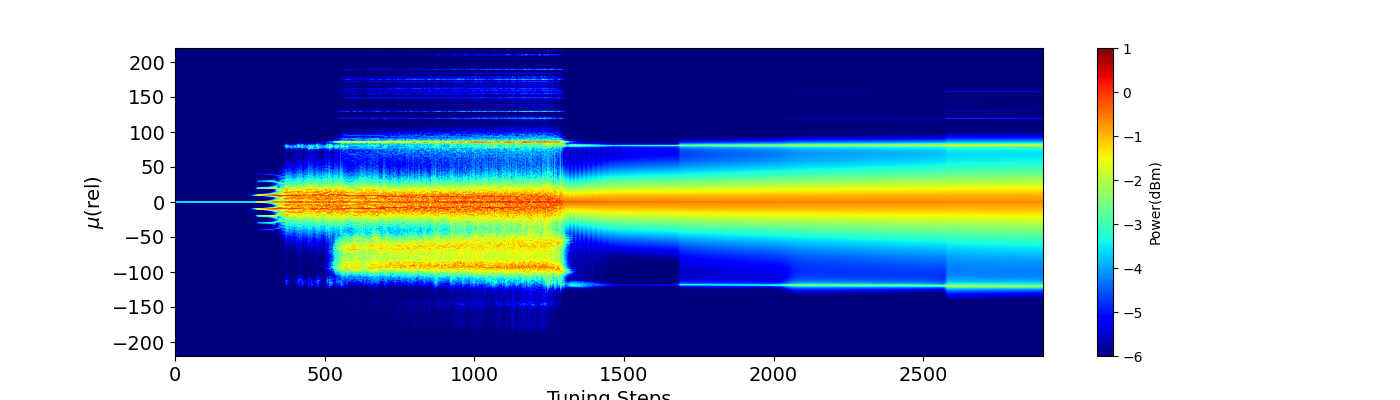
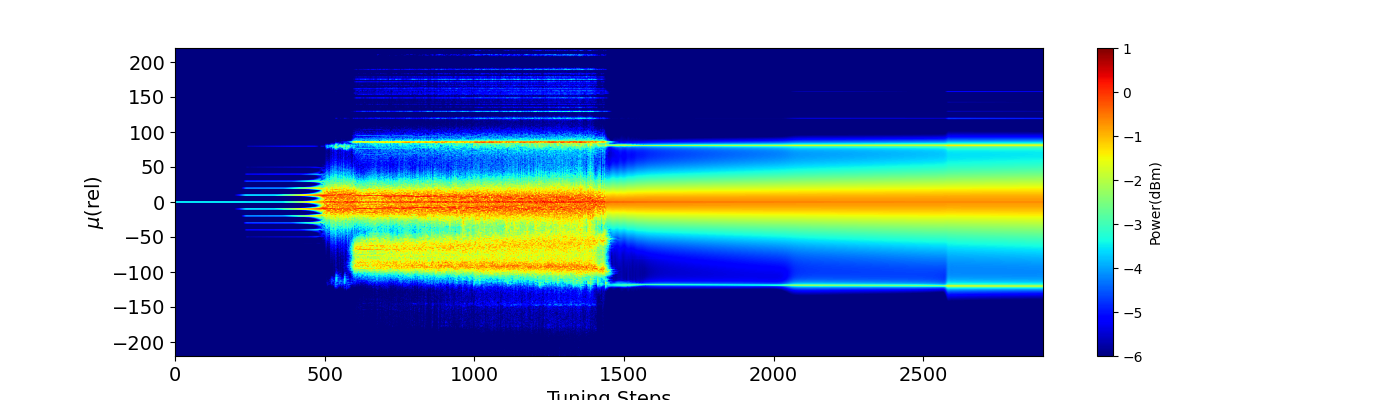
Refactor code structure and remove redundant sections for improved readability and maintainability

Changed region(s): [[0.1536, 0.12, 0.4914, 0.84]]

diff --git a/rl_mrr_all_gru_ddqn.py b/rl_mrr_all_gru_ddqn.py
@@ -338,8 +338,8 @@ class RL_MRR_Env():
         self.step_cntr = 0
         self.pcav_hist = []
 
-        self.power = np.random.uniform(0.12, 0.16, size=(1,))
-        # self.power = np.array([0.18])
+        # self.power = np.random.uniform(0.12, 0.16, size=(1,))
+        self.power = np.array([0.12])
         Ppmp = torch.tensor(self.power, dtype=torch.float64)
         # # fpmp = fpmp[0]
         # Ain = torch.zeros(1, len(self.mu),dtype=torch.complex128, device=DEVICE)
@@ -678,7 +678,9 @@ plt.grid()
 plt.legend()
 plt.xlabel('Iteration')
 plt.ylabel('Pcav')
-plt.savefig('./maddpg_results/'+agent.run_name+'_pcav_spec_all_ctrl.png')
+plt.title('Pump Power: '+str(env.power)+'mW', fontsize=16, fontweight='bold')
+mod_pow = str(env.power[0]).replace('.','_')
+plt.savefig('./maddpg_results/'+agent.run_name+'_'+mod_pow+'_'+'_pcav_spec_all_ctrl.png')
 plt.show()
 # %%
 # from fastdtw import fastdtw
@@ -717,14 +719,17 @@ formatter.set_powerlimits((-1, 1))
 plt.gca().xaxis.set_major_formatter(formatter)
 plt.xlabel('Tuning Steps', fontsize=14)
 plt.ylabel(r'$t_R (ps)$', fontsize=14)
-plt.savefig('./maddpg_results/'+agent.run_name+'_ecav_hist_spec_all_ctrl.png')
+plt.title('Pump Power: '+str(env.power)+'mW', fontsize=16, fontweight='bold')
+mod_pow = str(env.power[0]).replace('.','_')
+plt.tight_layout()
+plt.savefig('./maddpg_results/'+agent.run_name+'_'+mod_pow+'_'+'_ecav_hist_spec_all_ctrl.png')
 plt.show()
 
 # %%
 plt.figure(figsize=(14,4))
 spectrum = np.fft.fftshift(np.fft.fft(np.array(acav_hist).T, axis=0), axes=0)
 spectrum_dBm = 10*np.log10(np.abs(spectrum)**2)+30
-spectrum_dBm = np.clip(spectrum_dBm, -60, 10)/10
+spectrum_dBm = np.clip(spectrum_dBm, -60, 10)
 plt.imshow(spectrum_dBm, aspect='auto', cmap='jet'\
             ,extent=[0, len(acav_hist), env.mu.min().item(), env.mu.max().item()])
 plt.xlabel('Tuning Steps', fontsize=14)
@@ -732,7 +737,10 @@ plt.ylabel(r'$\mu$' +'(rel)', fontsize=14)
 plt.colorbar(label='Power(dBm)')
 plt.xticks(fontsize=14)
 plt.yticks(fontsize=14)
-plt.savefig('./maddpg_results/'+agent.run_name+'_ecav_hist_ifft_spec_all_ctrl.png')
+plt.title('Pump Power: '+str(env.power)+'mW', fontsize=16, fontweight='bold')
+mod_pow = str(env.power[0]).replace('.','_')
+plt.tight_layout()
+plt.savefig('./maddpg_results/'+agent.run_name+'_'+mod_pow+'_'+'_ecav_hist_ifft_spec_all_ctrl.png')
 plt.show()
 # %% Reward Plot
 plt.figure(figsize=(10, 6))
@@ -740,23 +748,28 @@ plt.plot(r_hist)
 plt.xlabel('Iteration', fontsize=14)
 plt.ylabel('Reward ', fontsize=14)
 plt.grid()
-plt.savefig('./maddpg_results/'+agent.run_name+'_rewards_spec_all_ctrl.png')
+plt.title('Pump Power: '+str(env.power)+'mW', fontsize=16, fontweight='bold')
+mod_pow = str(env.power[0]).replace('.','_')
+plt.savefig('./maddpg_results/'+agent.run_name+'_'+mod_pow+'_'+'_rewards_spec_all_ctrl.png')
 plt.show()
 # %%
 # desired_spectrum_dBm = 10*torch.log10(torch.abs(desired_spectrum)**2)+30
 plt.figure(figsize=(14,4))
-plt.vlines(np.arange(len(ecav)), -60*np.ones(len(ecav[-1])), ecav[-1], \
+plt.vlines(np.arange(-220,221, 1), -60*np.ones(len(ecav[-1])), ecav[-1], \
            label='Obtained Spectrum')
-plt.vlines(np.arange(len(desired_spectrum)), -60*np.ones(len(desired_spectrum)),\
+plt.vlines(np.arange(-220,221, 1), -60*np.ones(len(desired_spectrum)),\
             desired_spectrum_dBm, color='red', label='Desired Spectrum',alpha=0.5)
-plt.xlabel('Mode no.', fontsize=14)
+plt.xlabel('Rel. Mode no.', fontsize=14)
 plt.ylabel('Power(dBm)', fontsize=14)
 plt.grid()
 plt.ylim(-90,5)
 plt.xticks(fontsize=14)
 plt.yticks(fontsize=14)
 plt.legend(fontsize=14)
-plt.savefig('./maddpg_results/'+agent.run_name+'_ecav_spec_all_ctrl.png')
+plt.title('Pump Power: '+str(env.power)+'mW', fontsize=16, fontweight='bold')
+mod_pow = str(env.power[0]).replace('.','_')
+plt.tight_layout()
+plt.savefig('./maddpg_results/'+agent.run_name+'_'+mod_pow+'_'+'_ecav_spec_all_ctrl.png')
 plt.show()
 # %%
 action_hist = np.array(action_hist)
@@ -775,7 +788,9 @@ plt.legend()
 plt.grid()
 plt.xticks(fontsize=14)
 plt.yticks(fontsize=14)
-plt.savefig('./maddpg_results/'+agent.run_name+'_actions_spec_all_ctrl.png')
+plt.title('Pump Power: '+str(env.power)+'mW', fontsize=16, fontweight='bold')
+mod_pow = str(env.power[0]).replace('.','_')
+plt.savefig('./maddpg_results/'+agent.run_name+'_'+mod_pow+'_'+'_actions_spec_all_ctrl.png')
 plt.show()
 
 # plt.figure(figsize=(10, 6))

diff --git a/gru_ddqn.py b/gru_ddqn.py
@@ -73,7 +73,7 @@ class DuelingDQN(nn.Module):
     
     def load_checkpoint(self):
         print('... loading checkpoint ...')
-        self.load_state_dict(T.load(self.checkpoint_file))
+        self.load_state_dict(T.load(self.checkpoint_file, weights_only=True))
     
 
 class Agent:
